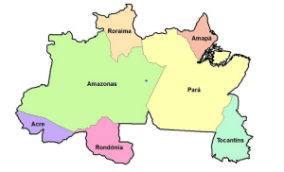
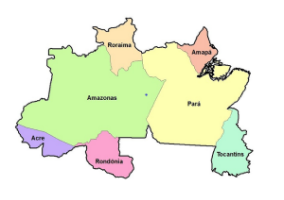
Ajuste no tamanho dos mapas

diff --git a/AME_vs1/home/css/estilo.css b/AME_vs1/home/css/estilo.css
@@ -208,8 +208,10 @@ main{
     letter-spacing: 2px;
     border-radius: 0px 0px 5px 5px;
 }
-.card1-1, .card1-2, .card1-3, .card1-4{
+.card1-1, .card1-2, .card1-3, .card1-4, .card1-5{
     margin-right: 2%;
+    
+    
 }
 h2{
     background-color:rgb(77, 75, 75);
